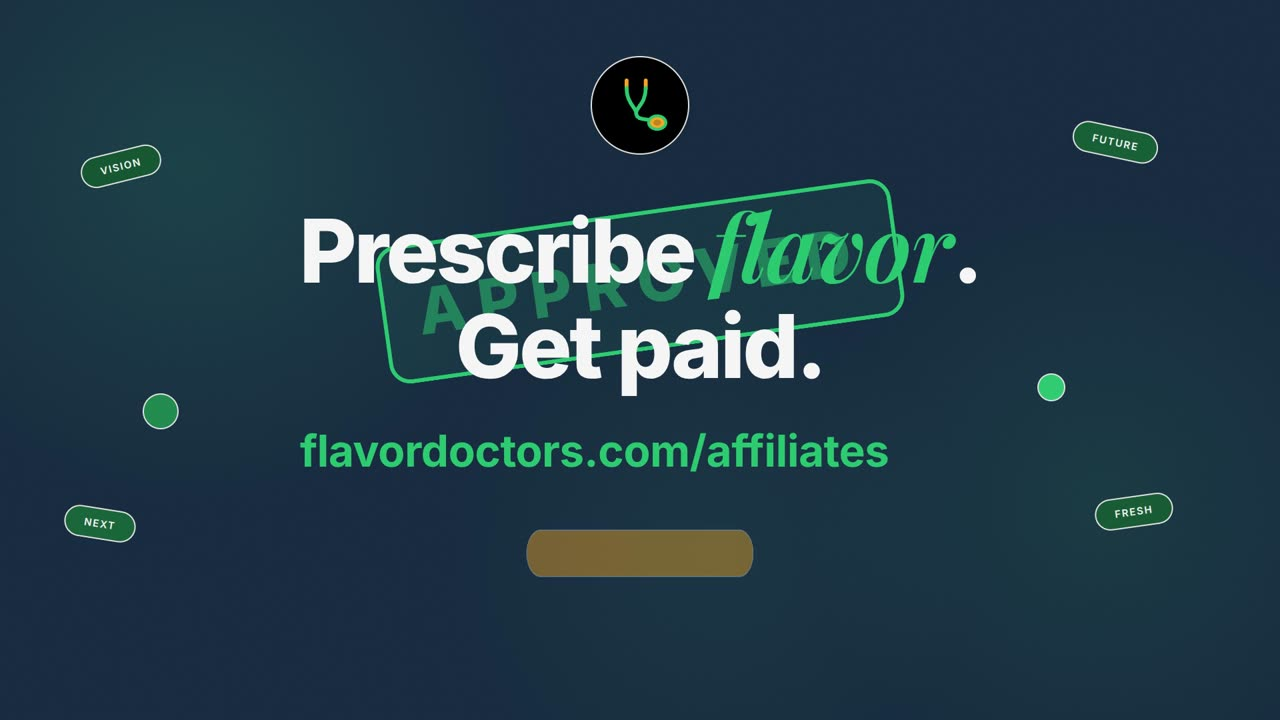
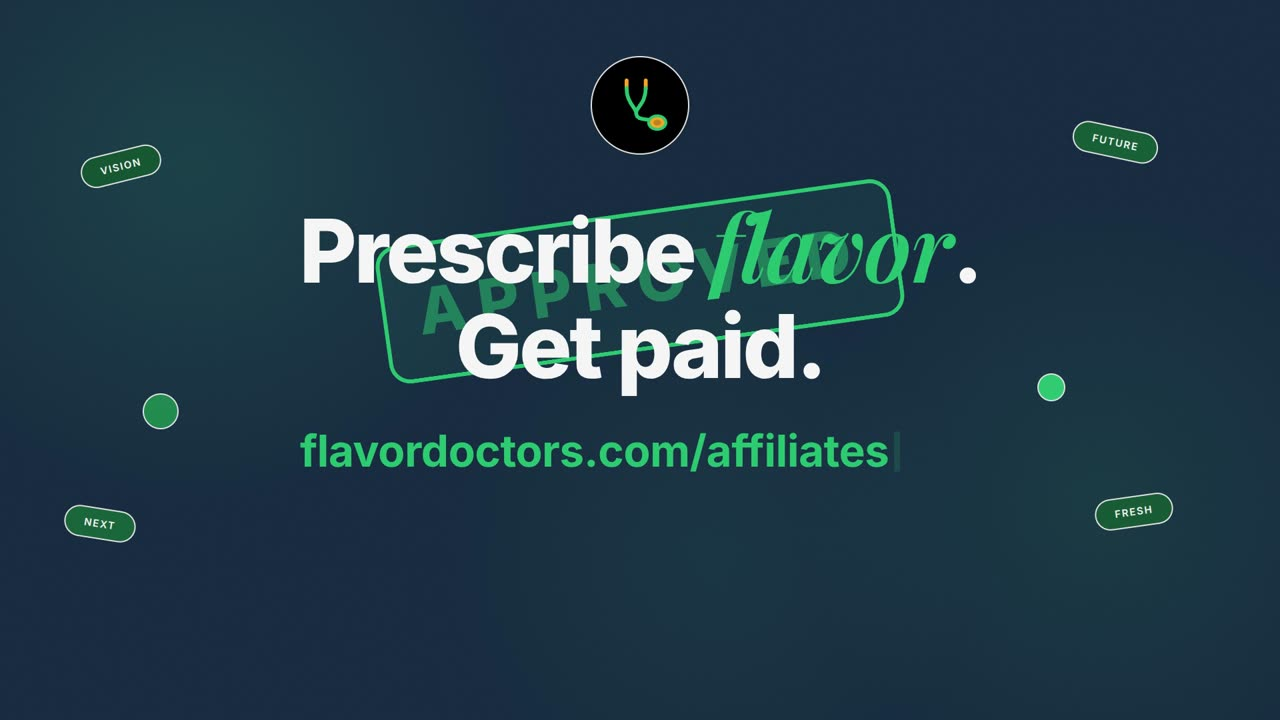
Upgrade promo soundtracks: ElevenLabs voiceover + original music beds
Homepage consult re-voiced with Brian (deep, deadpan) and the affiliate
pitch with Chris (charming recruiter), regenerated frame timings to the
new reads (45s / 35s), and mixed AI-composed instrumental beds under
each voiceover with fades. Player titles updated to the new runtimes.

Claude-Session: https://claude.ai/code/session_01SR7dcPJ3n4mfV3AWXu5jYd

Changed region(s): [[0.4062, 0.7333, 0.5938, 0.825]]

diff --git a/src/frontend/pages/Affiliates.tsx b/src/frontend/pages/Affiliates.tsx
@@ -153,7 +153,7 @@ export function Affiliates() {
         <PromoVideo
           src="/media/promo-affiliates.mp4"
           poster="/media/promo-affiliates-poster.jpg"
-          title="The pitch (0:37)"
+          title="The pitch (0:35)"
         />
       </div>
 

diff --git a/src/frontend/pages/Home.tsx b/src/frontend/pages/Home.tsx
@@ -114,7 +114,7 @@ export function Home() {
           <PromoVideo
             src="/media/promo-home.mp4"
             poster="/media/promo-home-poster.jpg"
-            title="Watch the consult (0:47)"
+            title="Watch the consult (0:45)"
           />
         </div>
       </section>